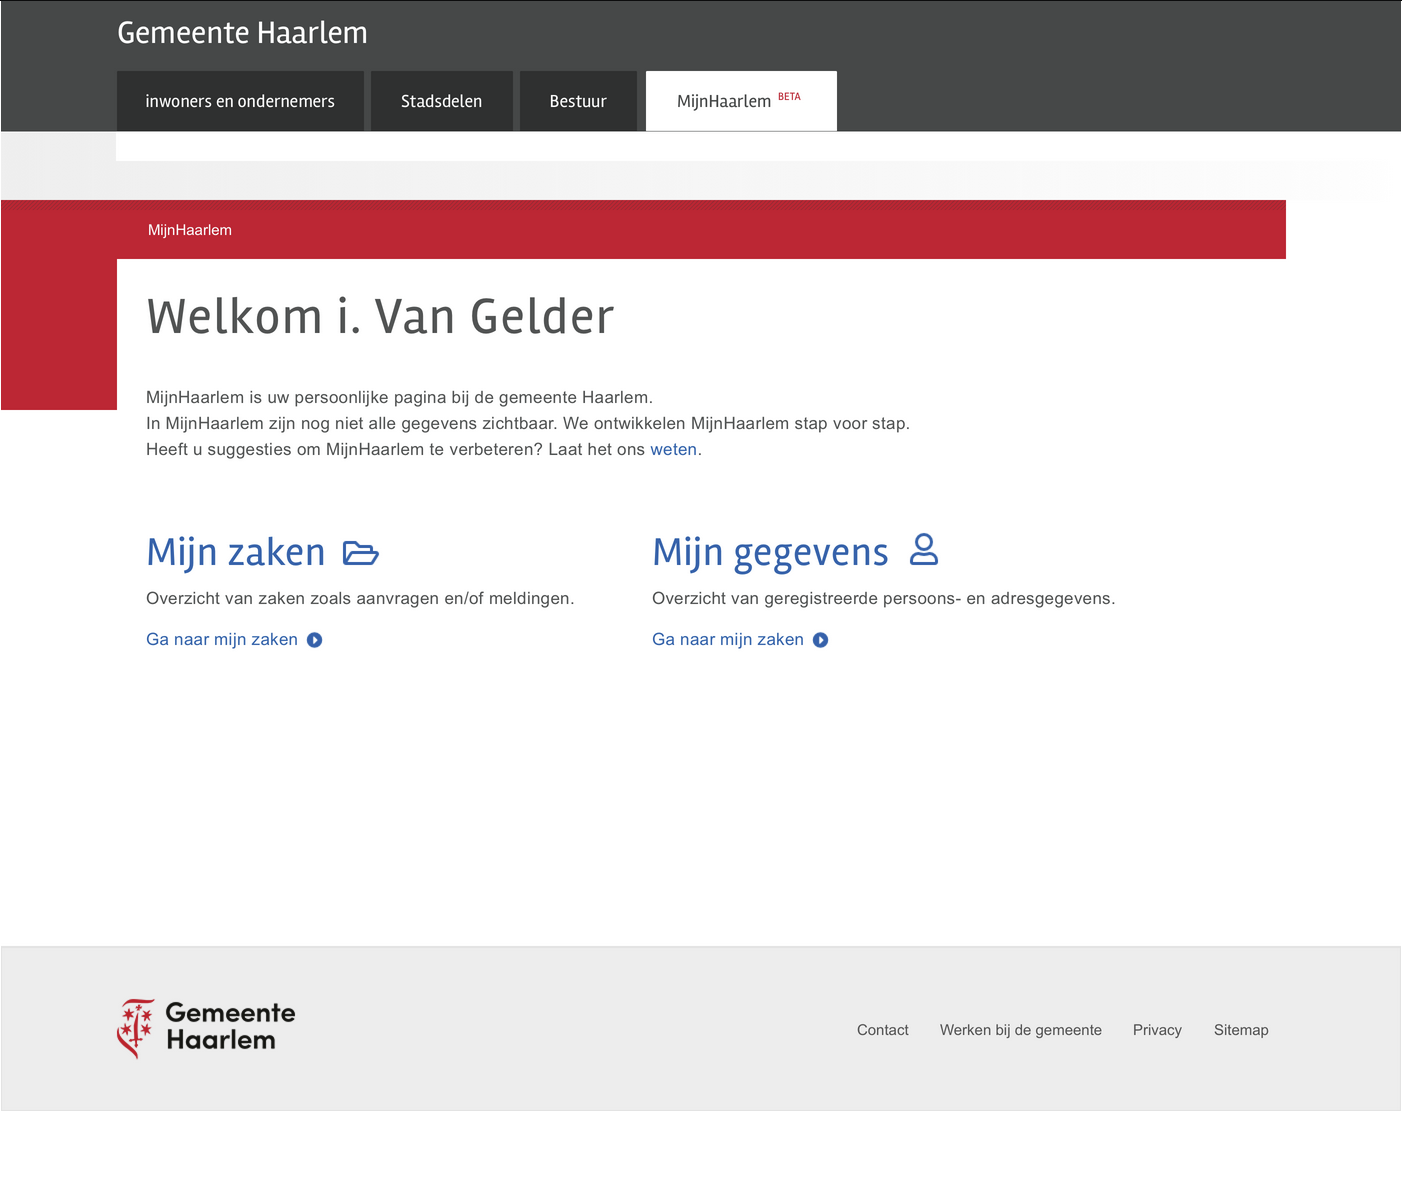
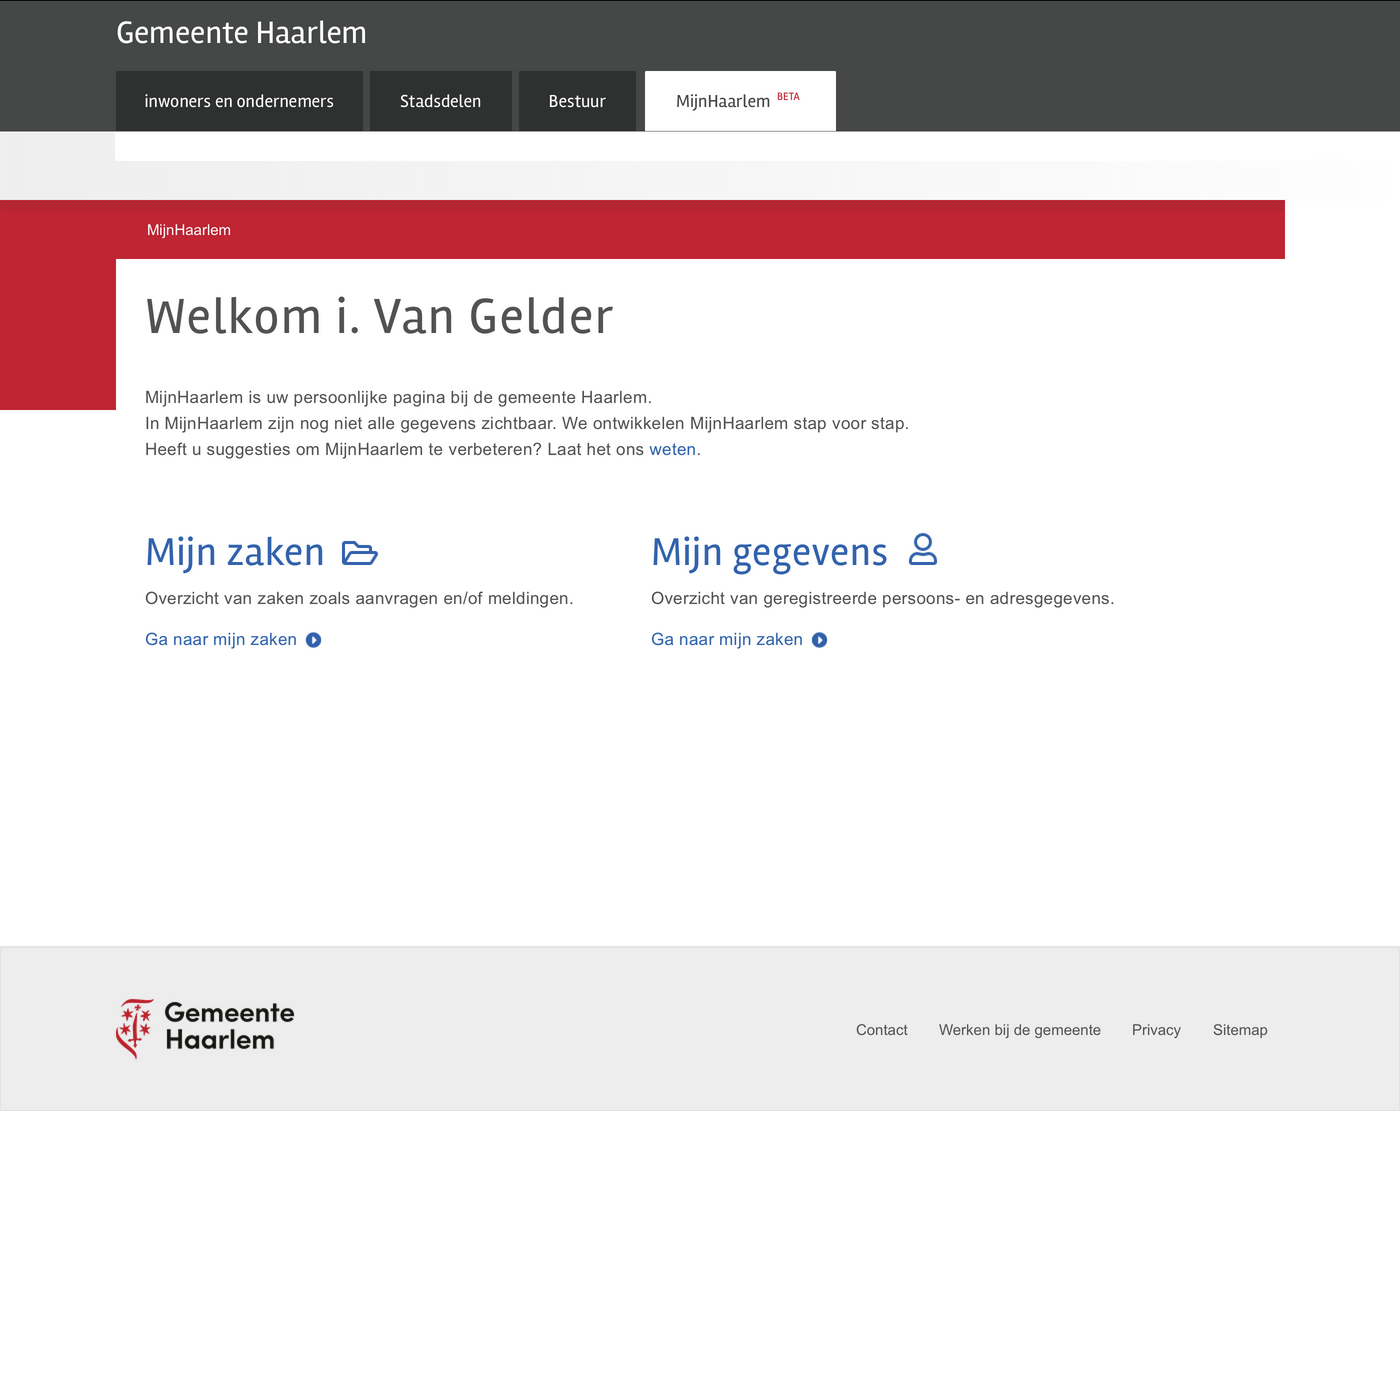
MijnStad images right size

diff --git a/di-demo/client/src/pages/MijnStadPage/MijnStadPage.tsx b/di-demo/client/src/pages/MijnStadPage/MijnStadPage.tsx
@@ -104,7 +104,7 @@ const MijnStadPage: React.FC = () => {
               <img
                 alt="Ingelogd | Mijn Amsterdam"
                 src={`/assets/theme/${theme}/mijnstad-authorized.png`}
-                height="1068"
+                height="1400"
                 width="1400"
                 decoding="async"
               />
